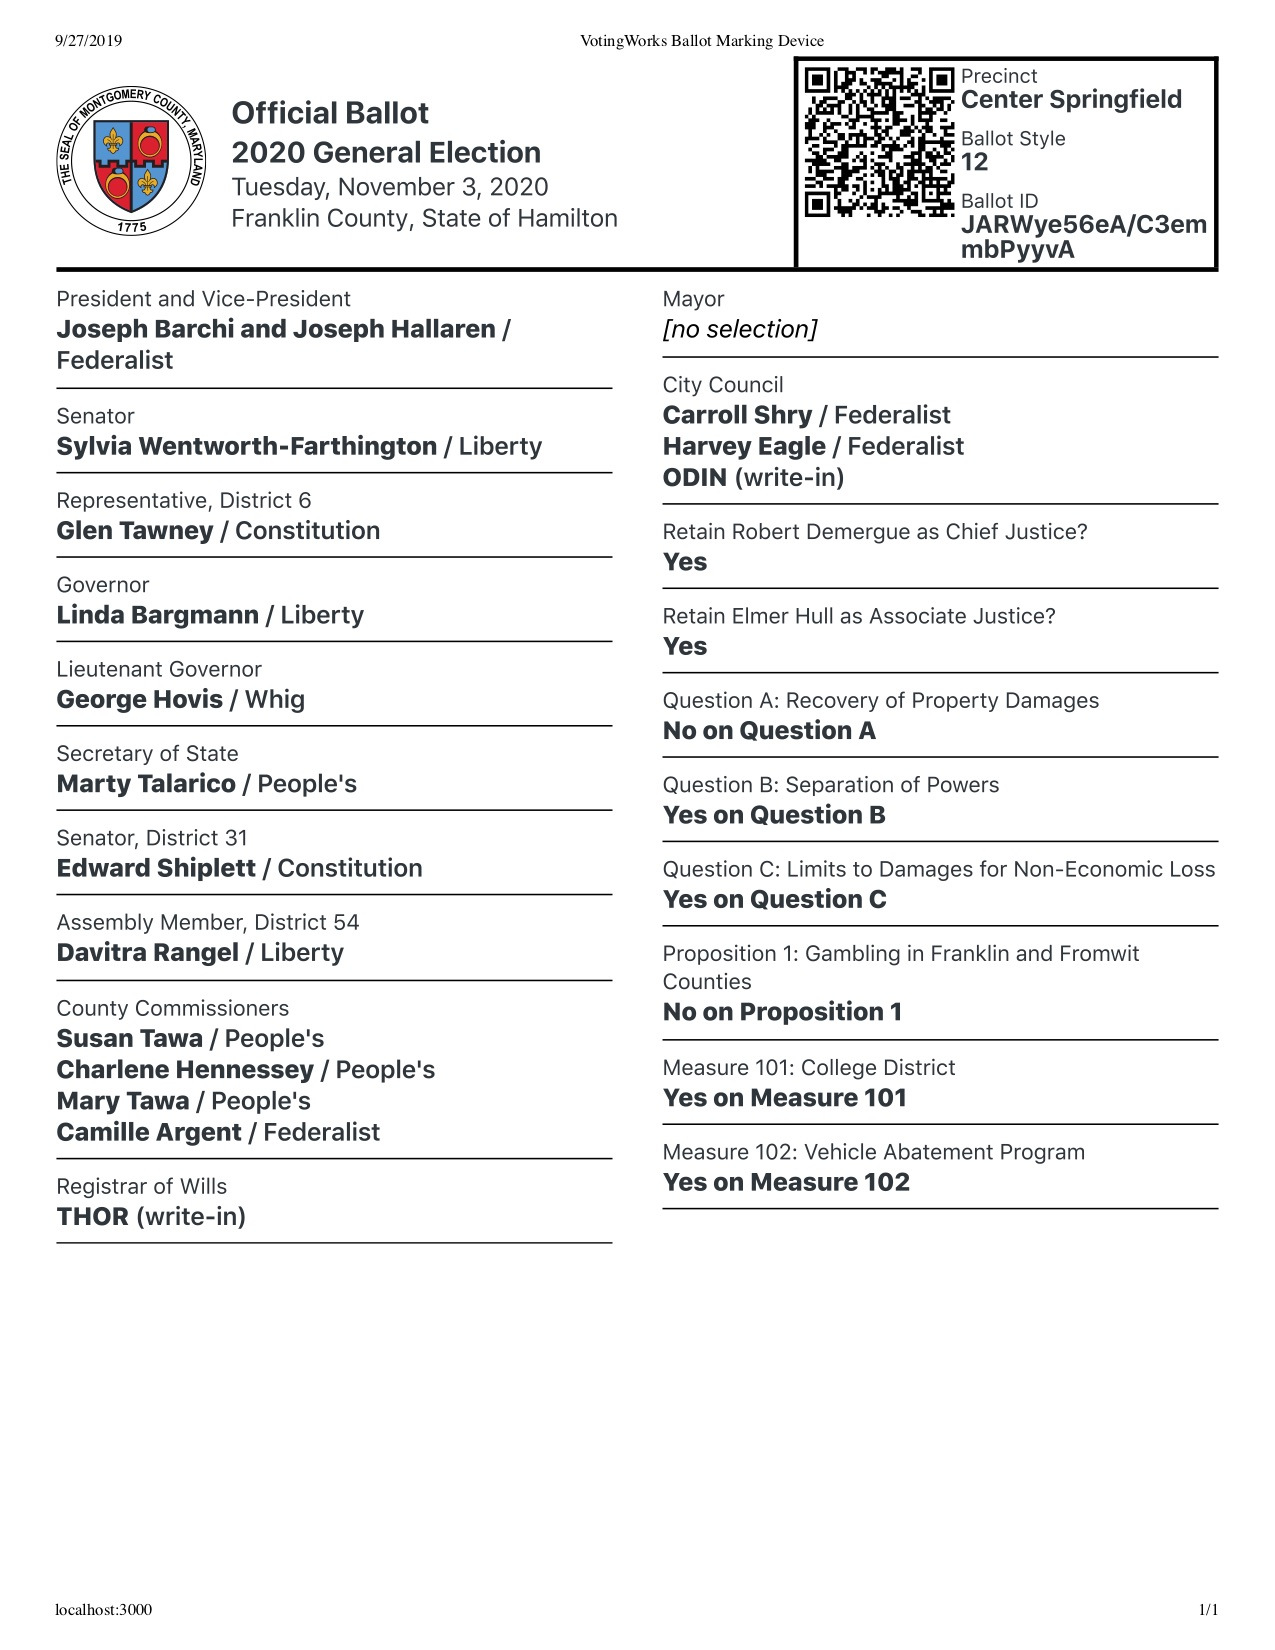
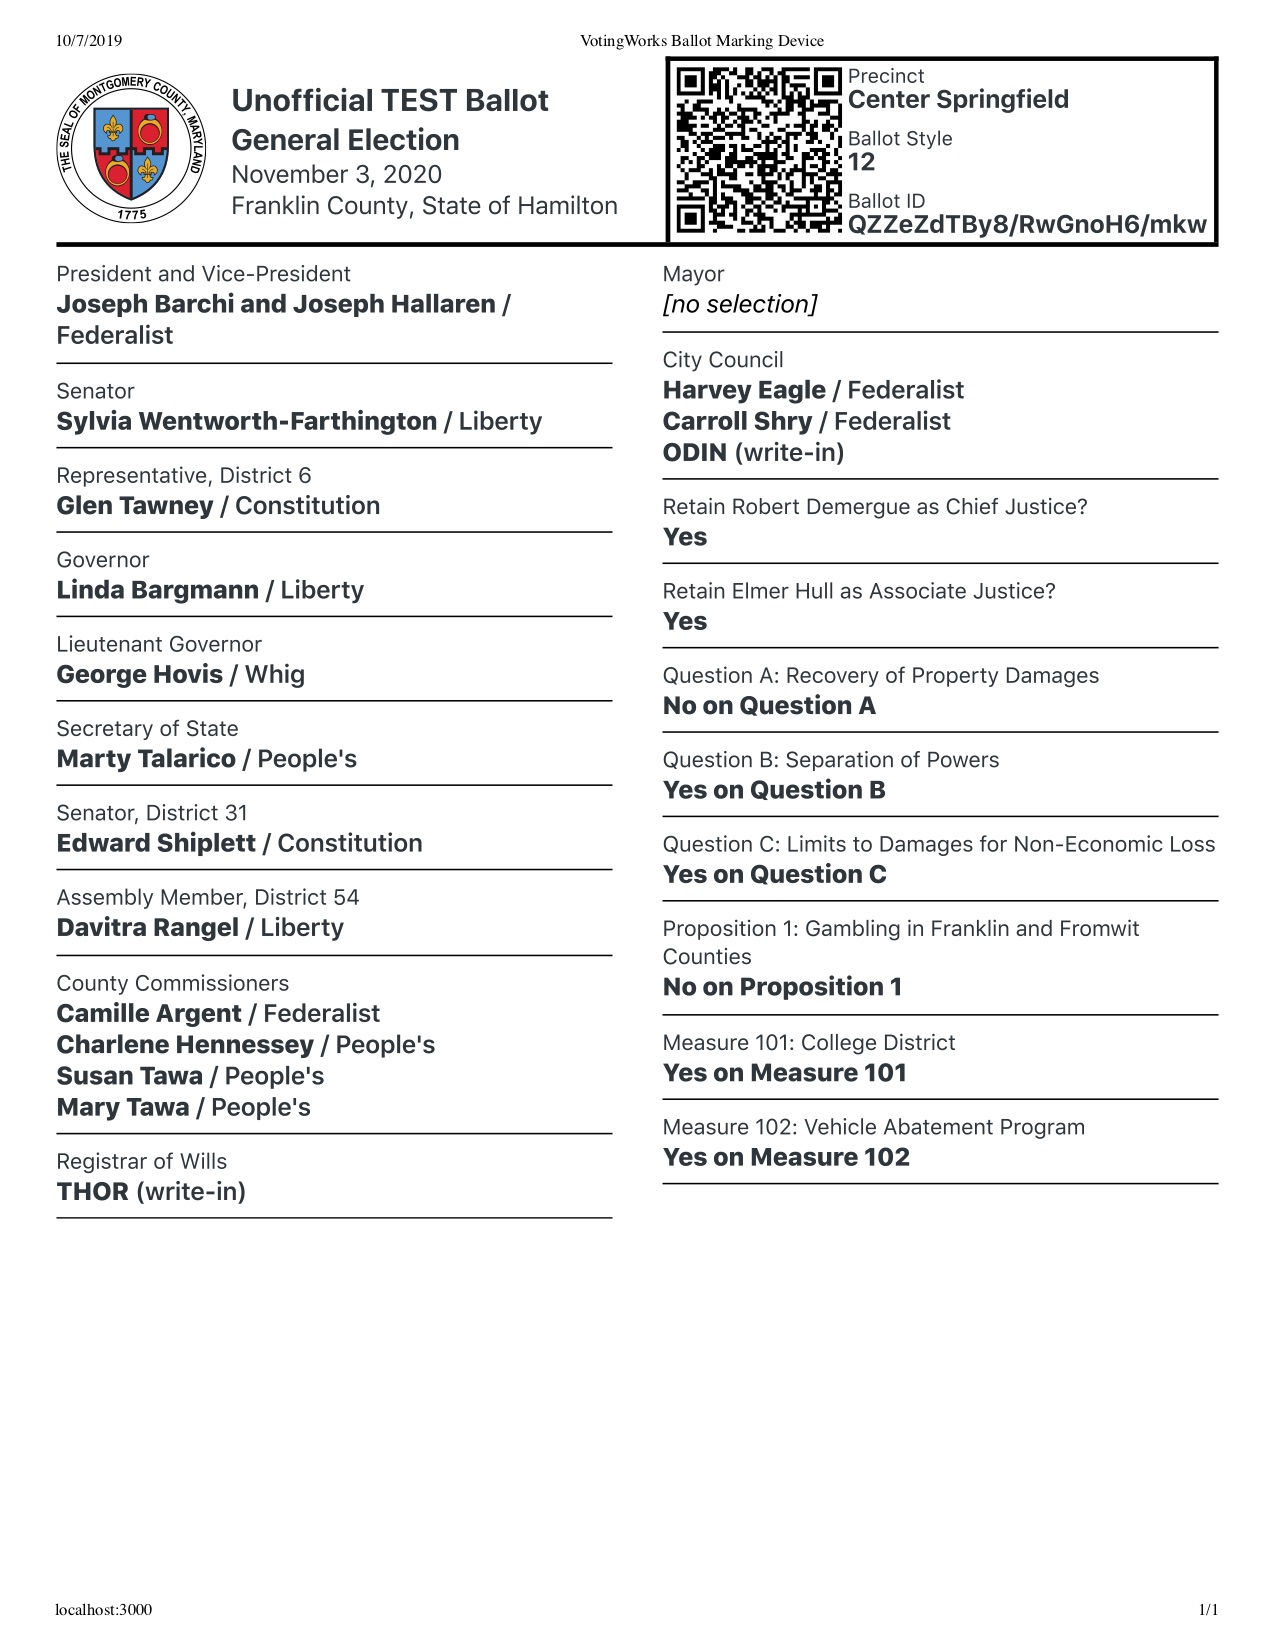
chore(deps): update to latest ballot-encoder

Changed region(s): [[0.0306, 0.0309, 0.4894, 0.7418], [0.52, 0.0309, 0.9482, 0.7418]]

diff --git a/src/endToEnd.test.ts b/src/endToEnd.test.ts
@@ -158,7 +158,7 @@ test('going through the whole process works', async () => {
   expect(JSON.stringify(serialNumbers)).toBe(
     JSON.stringify([
       '85lnPkvfNEytP3Z8gMoEcA',
-      'JARWye56eA/C3emmbPyyvA', // v1 encoding
+      'QZZeZdTBy8/RwGnoH6/mkw', // v1 encoding
       'manual-test-serial-number',
       'manual-test-serial-number-2',
       'r6UYR4t7hEFMz8QlMWf1Sw',

diff --git a/src/importer.ts b/src/importer.ts
@@ -3,7 +3,7 @@ import * as path from 'path'
 import * as fs from 'fs'
 import * as streams from 'memory-streams'
 import * as fsExtra from 'fs-extra'
-import { Election } from 'ballot-encoder'
+import { Election } from '@votingworks/ballot-encoder'
 
 import { CVRCallbackParams, CastVoteRecord, BatchInfo } from './types'
 import Store from './store'

diff --git a/src/server.ts b/src/server.ts
@@ -5,7 +5,7 @@
 
 import express, { Application, Request, Response } from 'express'
 import * as path from 'path'
-import { Election } from 'ballot-encoder'
+import { Election } from '@votingworks/ballot-encoder'
 
 import SystemImporter, { Importer } from './importer'
 import Store from './store'

diff --git a/src/importer.test.ts b/src/importer.test.ts
@@ -1,5 +1,5 @@
 import * as chokidar from 'chokidar'
-import { electionSample as election } from 'ballot-encoder'
+import { electionSample as election } from '@votingworks/ballot-encoder'
 import SystemImporter from './importer'
 import Store from './store'
 import { Scanner } from './scanner'

diff --git a/src/interpreter.ts b/src/interpreter.ts
@@ -16,7 +16,7 @@ import {
   Election,
   encodeBallot,
   EncoderVersion,
-} from 'ballot-encoder'
+} from '@votingworks/ballot-encoder'
 
 import { CastVoteRecord, CVRCallbackFunction } from './types'
 
